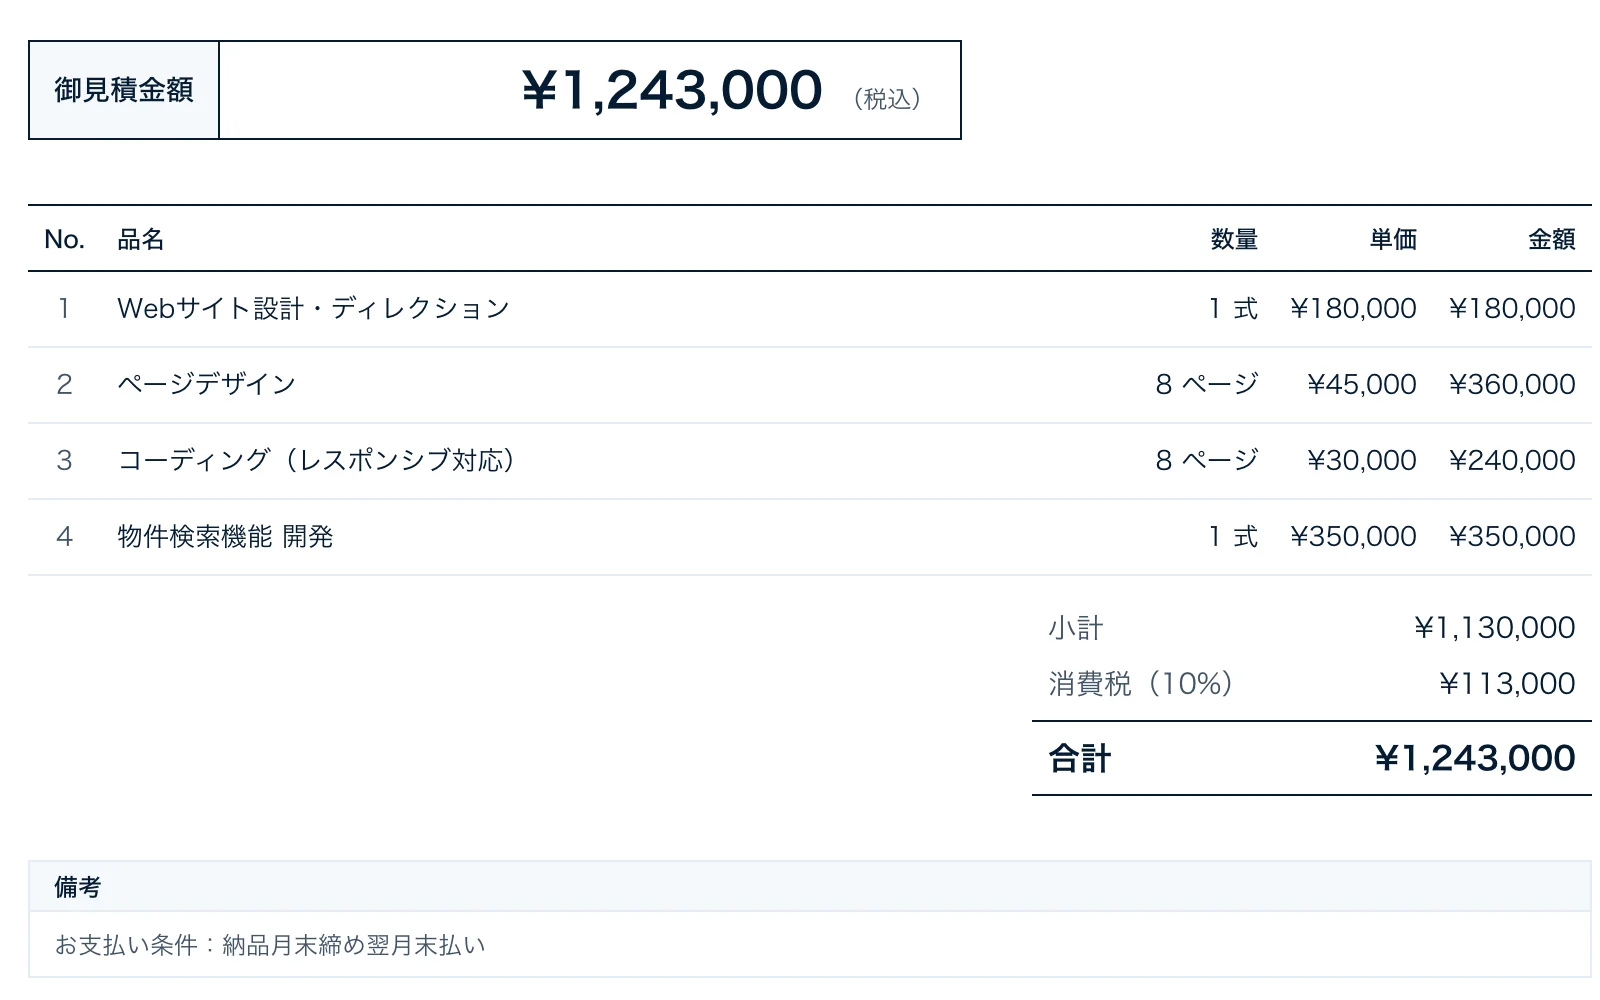
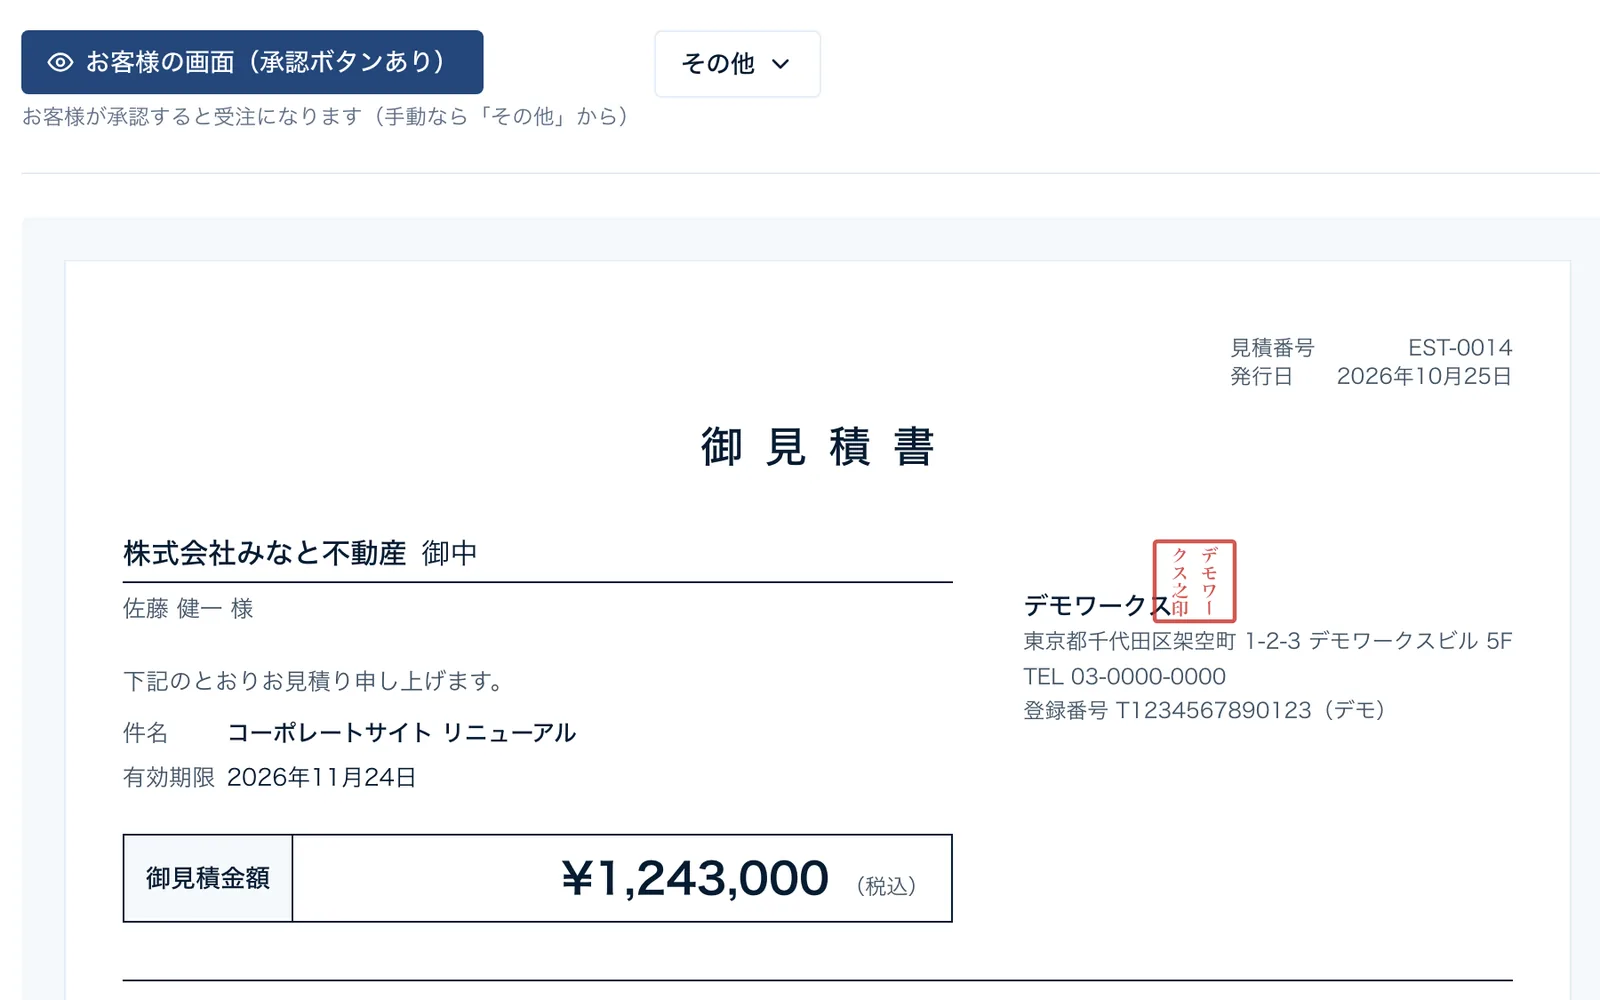
feat: MVP 5本のサムネイルを撮り直し、連作の説明を今のつながりに合わせる
- 5本の見せ場（予約の週表示、御見積書、Hikae の入金、写真入りの LP、定期便のヒーロー）を撮り直す
- 連作の説明に、見積の承認で請求書が発行される流れと、LP → 予約 → Hikae の Lien の流れを書く
- Phrase: 空白を含む欧文の文節は nowrap にしない（390px で資格名が横にはみ出していた）

diff --git a/portfolio-mvps/components/MVPGrid.tsx b/portfolio-mvps/components/MVPGrid.tsx
@@ -36,7 +36,7 @@ export function MVPGrid() {
             小さな事業者向けの業務モックアップ（{standard.length}本の連作）
           </h3>
           <p className="mt-3 max-w-2xl leading-[1.9] text-ink-muted">
-            {`集客・予約・見積・販売・請求の業務を、1本ずつ画面にしたモックアップです。${standard.length}本とも API やデータベースを使わずブラウザ内のダミーデータで動き、公開デモで操作できます。見積から受注・請求までがつながっていて、見積管理ツールで受注した見積から、フリーランス管理ツールの請求書へリンクで移れます（デモでは1件のみ連携）。予約管理システムは、フリーランス管理ツールの中では取引先から受けた開発案件として登場します。`}
+            {`集客・予約・見積・販売・請求の業務を、1本ずつ画面にしたモックアップです。${standard.length}本とも API やデータベースを使わずブラウザ内のダミーデータで動き、公開デモで操作できます。5本は1つの流れとしてつながっています。見積管理ツールでお客様が見積を承認すると、フリーランス管理ツールの請求書が下書きから発行済みに切り替わります（デモでは1件のみ連携）。LP生成サービスのサンプルの美容室 Lien は、LP の「WEB予約」から予約管理システムへ進み、フリーランス管理ツールの中では取引先から受けた開発案件として登場します。`}
           </p>
           <MetaItems items={sharedMetaItems(standard)} className="mt-3 mb-10" />
           {/* 狭い画面では縦に積むと長くなるため、横にスクロールする帯にする */}

diff --git a/portfolio-mvps/components/Phrase.tsx b/portfolio-mvps/components/Phrase.tsx
@@ -9,6 +9,8 @@ const parser = loadDefaultJapaneseParser();
  * keep-all だけに頼ると WebKit が開き括弧「（」の直後で折り返すため、文節ごとに nowrap にしている。
  * CSS の word-break: auto-phrase と違い Safari でも効く。サーバーで描画するため、ブラウザに解析器は送らない。
  * 長い段落には使わない（行末がガタガタになる）。見出し・凡例・一言説明など数行の文に使う。
+ * 空白を含む文節（「Microsoft Office Specialist Excel 365」のような欧文）は nowrap にしない。
+ * 1 文節として丸ごと折り返さないと、狭い画面で横にはみ出すため。欧文は空白の位置で折り返る。
  */
 export function Phrase({ text }: { text: string }) {
   return (
@@ -16,7 +18,7 @@ export function Phrase({ text }: { text: string }) {
       {parser.parse(text).map((chunk, i) => (
         <Fragment key={i}>
           {i > 0 && <wbr />}
-          <span className="whitespace-nowrap">{chunk}</span>
+          {/\s/.test(chunk) ? chunk : <span className="whitespace-nowrap">{chunk}</span>}
         </Fragment>
       ))}
     </span>

diff --git a/portfolio-mvps/components/Phrase.test.ts b/portfolio-mvps/components/Phrase.test.ts
@@ -4,6 +4,14 @@ import { renderToStaticMarkup } from "react-dom/server";
 import { Phrase } from "./Phrase";
 
 describe("Phrase", () => {
+  it("空白を含む欧文の文節は nowrap にせず、空白で折り返せるようにする", () => {
+    const html = renderToStaticMarkup(
+      createElement(Phrase, { text: "Microsoft Office Specialist Excel 365" }),
+    );
+    expect(html).not.toContain("whitespace-nowrap");
+    expect(html).toContain("Microsoft Office Specialist Excel 365");
+  });
+
   it("文節の切れ目にだけ <wbr> を入れ、カタカナ語を割らない", () => {
     const html = renderToStaticMarkup(
       createElement(Phrase, { text: "危険な発話は、前段のポリシー層（発話のキーワード照合）で止まる" }),
